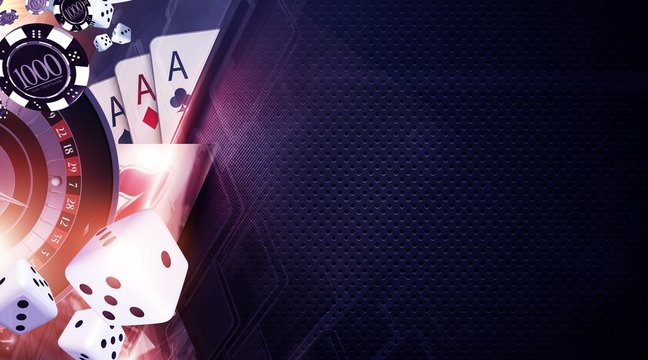
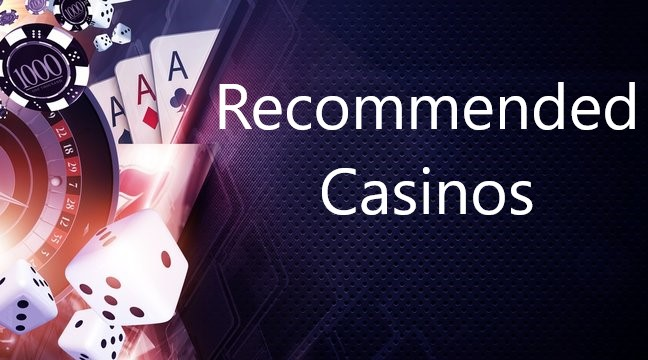
Updates

Changed region(s): [[0.3395, 0.2139, 0.9877, 0.3667], [0.4938, 0.4583, 0.8333, 0.6111]]

diff --git a/style.css b/style.css
@@ -5,6 +5,7 @@
     text-decoration: none;
 }
 
+/*
 #background-video {
   position: fixed;
   object-fit: cover;
@@ -13,7 +14,9 @@
   min-width: 100%;
   min-height: 100%;
 }
+*/
 
+/* Start home page */
 body {
     width: 100%;
     margin: 0;
@@ -25,7 +28,108 @@ body {
 .content {
     text-align: center;
     position: relative;
+    margin-bottom: 25px;
 }
+
+.banner {
+    position: relative;
+    display: block;
+    height: 300px;
+    width:800px;
+    margin-left: auto;
+    margin-right: auto;
+    margin-top: 100px;
+}
+/* End home page */
+
+/* Start Casinos page */
+.casinotext {
+    position: relative;
+    padding-left: 10px;
+    font-size: 25px;
+    width: 400px;
+}
+
+.casinologosr1 {
+    margin-top: 100px;
+    position: relative;
+    justify-content: center;
+    display: flex;
+    gap: 50px;
+}
+
+.casinologosr2 {
+    margin-top: 25px;
+    position: relative;
+    justify-content: center;
+    display: flex;
+    gap: 50px;
+}
+.casinologosr3  {
+    margin-top: 25px;
+    position: relative;
+    justify-content: center;
+    display: flex;
+    gap: 50px;
+    margin-bottom: 25px;
+}
+
+.title {
+    text-align: center;
+    margin-top: 150px;
+}
+/* End Casinos page */
+
+/* Start Socials page*/
+body {
+    background-color: rgb(100, 0, 0);
+}
+
+.socials-content {
+    margin-top: 100px;
+    margin-left: auto;
+    margin-right: auto;
+    display: block;
+    text-align: center;
+}
+
+.social-button button {
+    color: grey;
+    background-color: black;
+    cursor: pointer;
+    border-radius: 20px;
+    display: block;
+    margin-top: 20px;
+    margin-bottom: 20px;
+    margin-left: auto;
+    margin-right: auto;
+    position: relative;
+    justify-content: center;
+    text-align: center;
+    font-size: 72px;
+    width: 1000px;
+    height: 100px;
+    gap: 25px;
+}
+
+.social-button button:hover {
+    font-size: 85px;
+    color: white;
+}
+
+/* End socials page */
+
+/* start live streams page */
+.coming-soon {
+    text-align: center;
+    margin-top: 100px;
+    margin-bottom: 500px;
+}
+/* end live streams page */
+
+/* start videos page */
+
+/* end videos page */
 
 /* Start navbar */
 .navbar {
@@ -88,92 +192,7 @@ body {
     width: 50px;
 }
 
-.banner {
-    position: relative;
-    display: block;
-    height: 300px;
-    width:800px;
-    margin-left: auto;
-    margin-right: auto;
-    margin-top: 600px;
-}
 /* End navbar */
-
-/* Start Casinos page */
-.casinotext {
-    position: relative;
-    padding-left: 10px;
-    font-size: 25px;
-    width: 400px;
-}
-
-.casinologosr1 {
-    margin-top: 100px;
-    position: relative;
-    justify-content: center;
-    display: flex;
-    gap: 50px;
-}
-
-.casinologosr2 {
-    margin-top: 25px;
-    position: relative;
-    justify-content: center;
-    display: flex;
-    gap: 50px;
-}
-.casinologosr3  {
-    margin-top: 25px;
-    position: relative;
-    justify-content: center;
-    display: flex;
-    gap: 50px;
-    margin-bottom: 25px;
-}
-
-.title {
-    text-align: center;
-}
-/* End Casinos page */
-
-/* Start Socials page*/
-body {
-    background-color: rgb(168, 0, 0);
-}
-
-.socials-content {
-    margin-top: 100px;
-    margin-left: auto;
-    margin-right: auto;
-    display: block;
-    text-align: center;
-}
-
-.social-button button {
-    color: grey;
-    background-color: black;
-    cursor: pointer;
-    border-radius: 20px;
-    display: block;
-    margin-top: 20px;
-    margin-bottom: 20px;
-    margin-left: auto;
-    margin-right: auto;
-    position: relative;
-    justify-content: center;
-    text-align: center;
-    font-size: 72px;
-    width: 1000px;
-    height: 100px;
-    gap: 25px;
-}
-
-.social-button button:hover {
-    font-size: 85px;
-    color: white;
-}
-
-/* End socials page */
 
 /* Start footer */
 .footer {
@@ -273,10 +292,6 @@ ul.social-media-list {
     list-style-type: none;
     margin: 0;
     padding: 0;
-}
-
-ul.social-media-list img:hover    {
-    
 }
 
 @media(max-width: 600px) {

diff --git a/videos.html b/videos.html
@@ -6,37 +6,18 @@
     <meta name="viewport" content="width=device-width, initial-scale=1.0">
     <link type="text/css" rel="stylesheet" href="style.css">
     <title>Jolly Jimmy</title>
-    <link rel="icon" href="jjlogo.png">
+    <link rel="icon" href="images/jjlogo.png">
 </head>
 <body>
-    <div class="navbar">
-        <div class="navbar-left">
-            <a href="index.html">
-                <div class="navbar-item">
-                    <img class="logo" src="jjlogo.png">
-                </div>
-            </a>
-           <a href="casinos.html">
-                <div class="navbar-item">CASINOS</div>
-            </a>
-            <a href="livestreams.html">
-                <div class="navbar-item">LIVE STREAMS</div>
-            </a>
-            <a href="socials.html">
-                <div class="navbar-item">SOCIALS</div>
-            </a>
-            <a href="videos.html">
-                <div class="navbar-item">videos</div>
-            </a>
-        </div>
-        <div class="navbar-right">
-            <div class="navbar-item">CONTACT</div>
-        </div>
-	</div>
-
+    <script id="replace_with_navbar" src="nav.js"></script>
+    <div class="coming-soon">
+        <h1>COMING SOON</h1>
+    </div>
 	<div class="content">
 		
 	</div>
+
+    <script id="replace_with_footer" src="footer.js"></script>
 </body>
 <footer>
     <p></p>

diff --git a/casinos.html b/casinos.html
@@ -11,9 +11,11 @@
 <body>
     <script id="replace_with_navbar" src="nav.js"></script>
 
+    <!--
     <video id="background-video" autoplay muted loop poster="images/background.mp4">
         <source src="images/background.mp4" type="video/mp4">
     </video>
+    -->
    
 
     <h1 class ="title">RECOMMENDED CASINOS</h1>
@@ -24,8 +26,7 @@
         </div>
         <div>
             <a  target="_blank" href="https://rollbit.com/referral/jollyjimmy"><img src="images/rollbit jj.png" width="400px"></a> 
-            <p class="casinotext">Sign up to Rollbit with code JOLLYJIMMY to activate instant rakeback.</p>
-
+            <p class="casinotext">Sign up to Oak.bet</p>
         </div>
     </div>
     <div class="casinologosr2">
@@ -42,6 +43,10 @@
         <div>
             <a target="_blank" href="https://gamdom.com/r/jollyjimmy"><img src="images/gamdom jj.png" width="400px"></a> 
             <p class="casinotext">Sign up to Gamdom with code JOLLYJIMMY to activate instant rakeback! Gamdom also offers a weekly and monthly rakeback.</p>      
+        </div>
+        <div>
+            <a  target="_blank" href="https://rollbit.com/referral/jollyjimmy"><img src="images/rollbit jj.png" width="400px"></a> 
+            <p class="casinotext">Sign up to Rollbit with code JOLLYJIMMY to activate instant rakeback.</p>
         </div>
     </div>
 

diff --git a/index.html b/index.html
@@ -6,23 +6,24 @@
     <meta name="viewport" content="width=device-width, initial-scale=1.0">
     <link type="text/css" rel="stylesheet" href="style.css">
     <title>Jolly Jimmy</title>
-    <link rel="icon" href="jjlogo.png">
+    <link rel="icon" href="images/jjlogo.png">
     <link rel="stylesheet" href="https://cdnjs.cloudflare.com/ajax/libs/font-awesome/4.7.0/css/font-awesome.min.css">
 </head>
 <body>
 
     <script id="replace_with_navbar" src="nav.js"></script>
     
-
+    <!-- 
     <video id="background-video" autoplay muted loop poster="images/background.mp4">
         <source src="images/background.mp4" type="video/mp4">
     </video>
+    -->
    
 
 	<div class="content">
 		<h1><img class="banner" src="images/jjbanner.png"></h1>
-		<h1>Welcome to Jolly Jimmy</h1>
-        <img src="images/casino.jpg">
+		<h1></h1>
+        <a href="casinos.html"><img src="images/casino.jpg"></a>
 	</div>
    
     <script id="replace_with_footer" src="footer.js"></script>

diff --git a/nav.html b/nav.html
@@ -17,18 +17,19 @@
            <a href="casinos.html">
                 <div class="navbar-item">CASINOS</div>
             </a>
-            <a href="livestreams.html">
-                <div class="navbar-item">LIVE STREAMS</div>
-            </a>
             <a href="socials.html">
                 <div class="navbar-item">SOCIALS</div>
             </a>
+            <a href="livestreams.html">
+                <div class="navbar-item">LIVE STREAMS</div>
+            </a>
+    
             <a href="videos.html">
                 <div class="navbar-item">videos</div>
             </a>
         </div>
         <div class="navbar-right">
-            <button onclick=”togglePopup()” class="navbar-item">CONTACT</button>
+            <button class="navbar-item">CONTACT</button>
         </div>
 	</div>
     

diff --git a/socials.html b/socials.html
@@ -18,9 +18,9 @@
         <div class="kick-button">
          <a target="_blank" href="https://kick.com/jollyjimmy"><button>Kick</button></a>
         </div>
-     <a target="_blank" href="https://www.youtube.com/@jollyjimmy""><button>YouTube</button></a>
+     <a target="_blank" href="https://www.youtube.com/@jollyjimmy"><button>YouTube</button></a>
      <a target="_blank" href="https://discord.gg/jollyjimmy"><button>Discord</button></a>
-     <a target="_blank" href=https://twitter.com/JollyJimmy182"><button>Twitter</button></a>
+     <a target="_blank" href=https://twitter.com/JollyJimmy182><button>Twitter</button></a>
      <a target="_blank" href="https://www.tiktok.com/@jolly_jimmy"><button>TikTok</button></a>
     </div>
 

diff --git a/livestreams.html b/livestreams.html
@@ -12,7 +12,9 @@
 <body>
     <script id="replace_with_navbar" src="nav.js"></script>
 
-
-    
+    <div class="coming-soon">
+        <h1>COMING SOON</h1>
+    </div>
+    <script id="replace_with_footer" src="footer.js"></script>
 </body>
 </html>
